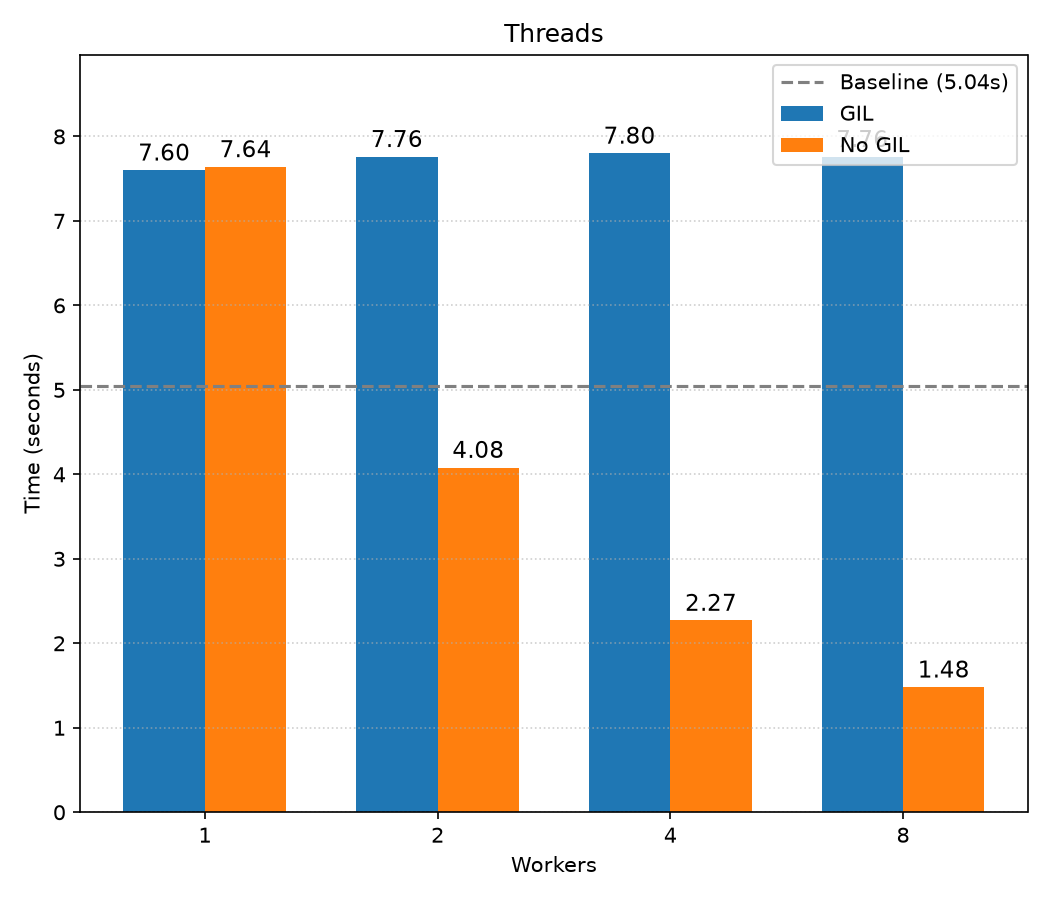
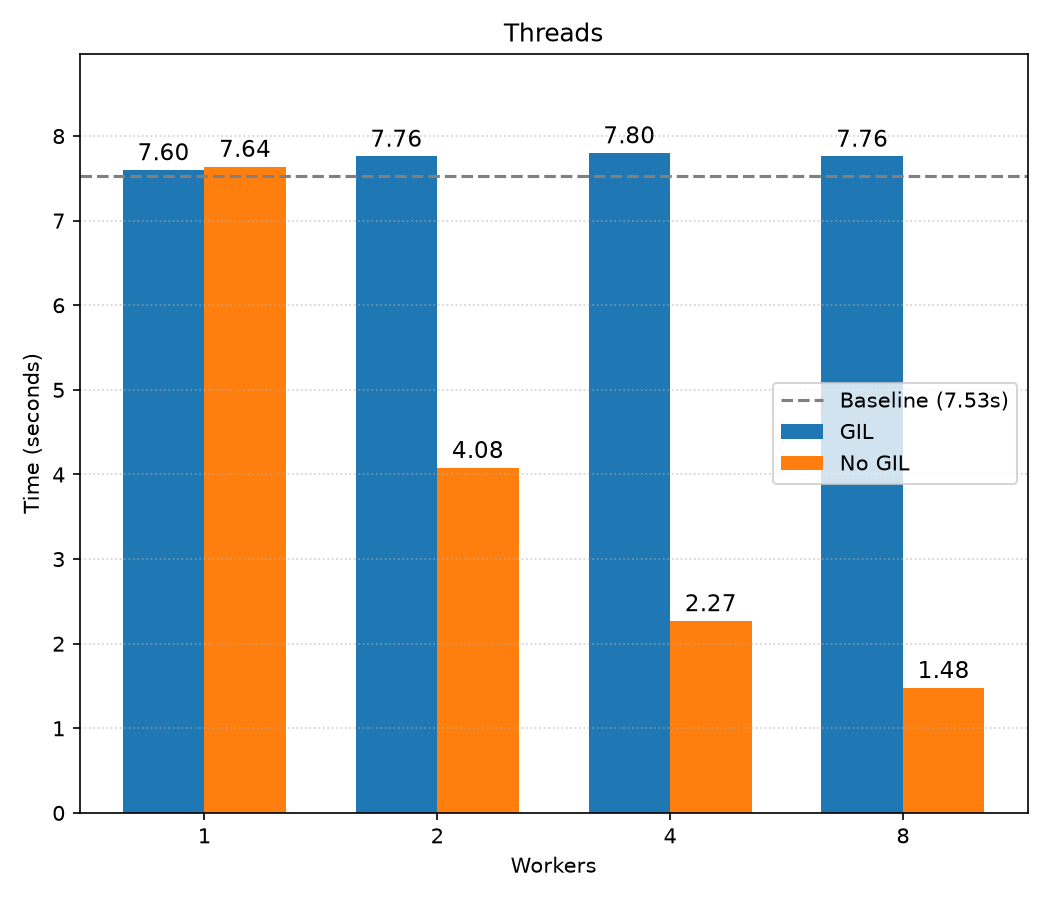
Update data

diff --git a/01_subinterpreters_gil/slides/assets/benchmark_threads.py b/01_subinterpreters_gil/slides/assets/benchmark_threads.py
@@ -2,7 +2,7 @@ import matplotlib.pyplot as plt
 import numpy as np
 
 workers = [1, 2, 4, 8]
-baseline = 5.04
+baseline = 7.53
 
 gil = [7.60, 7.76, 7.8, 7.76]
 no_gil = [7.64, 4.08, 2.27, 1.48]
